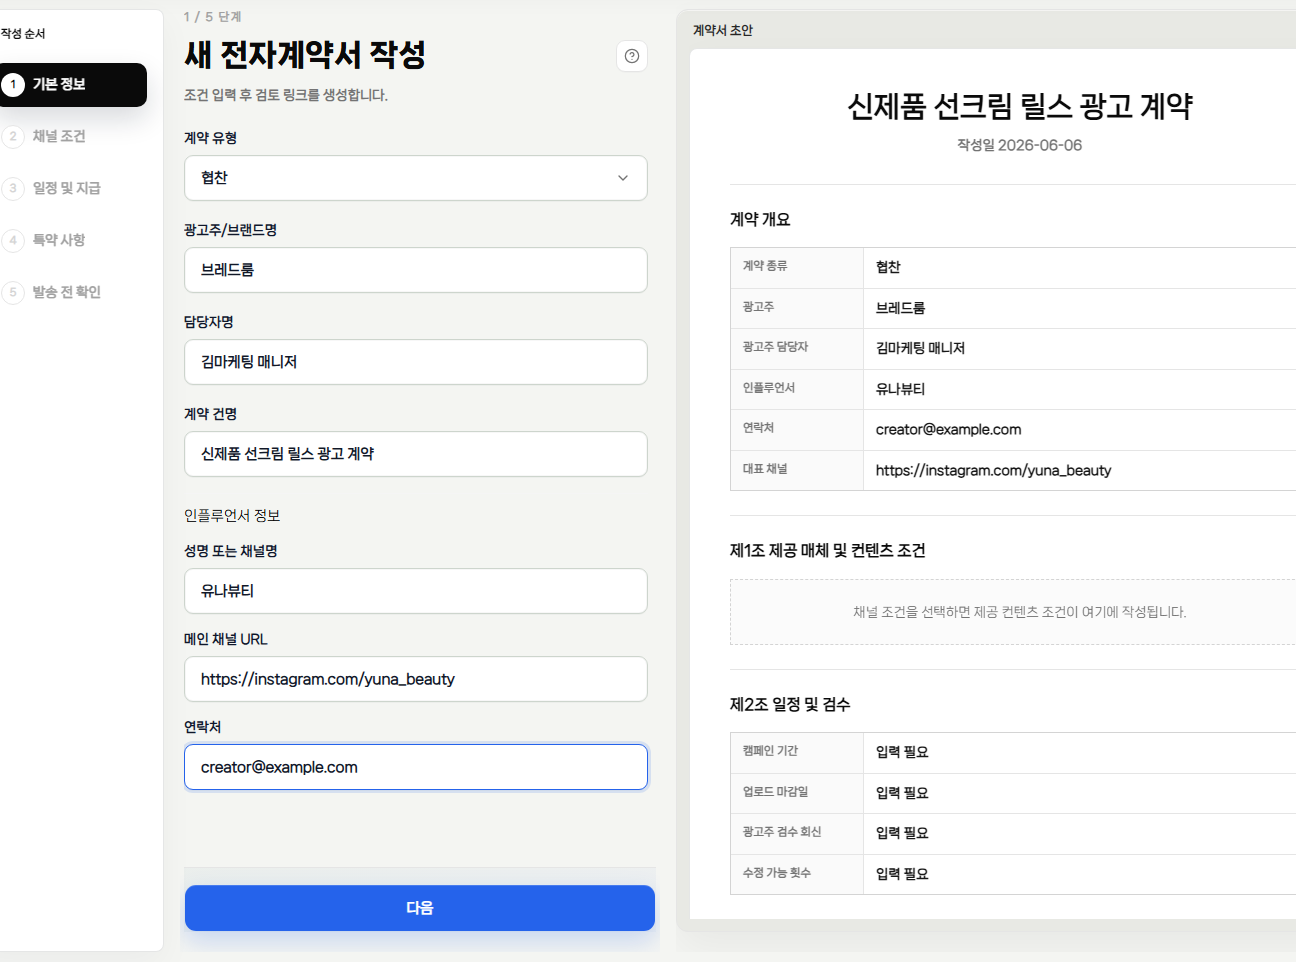
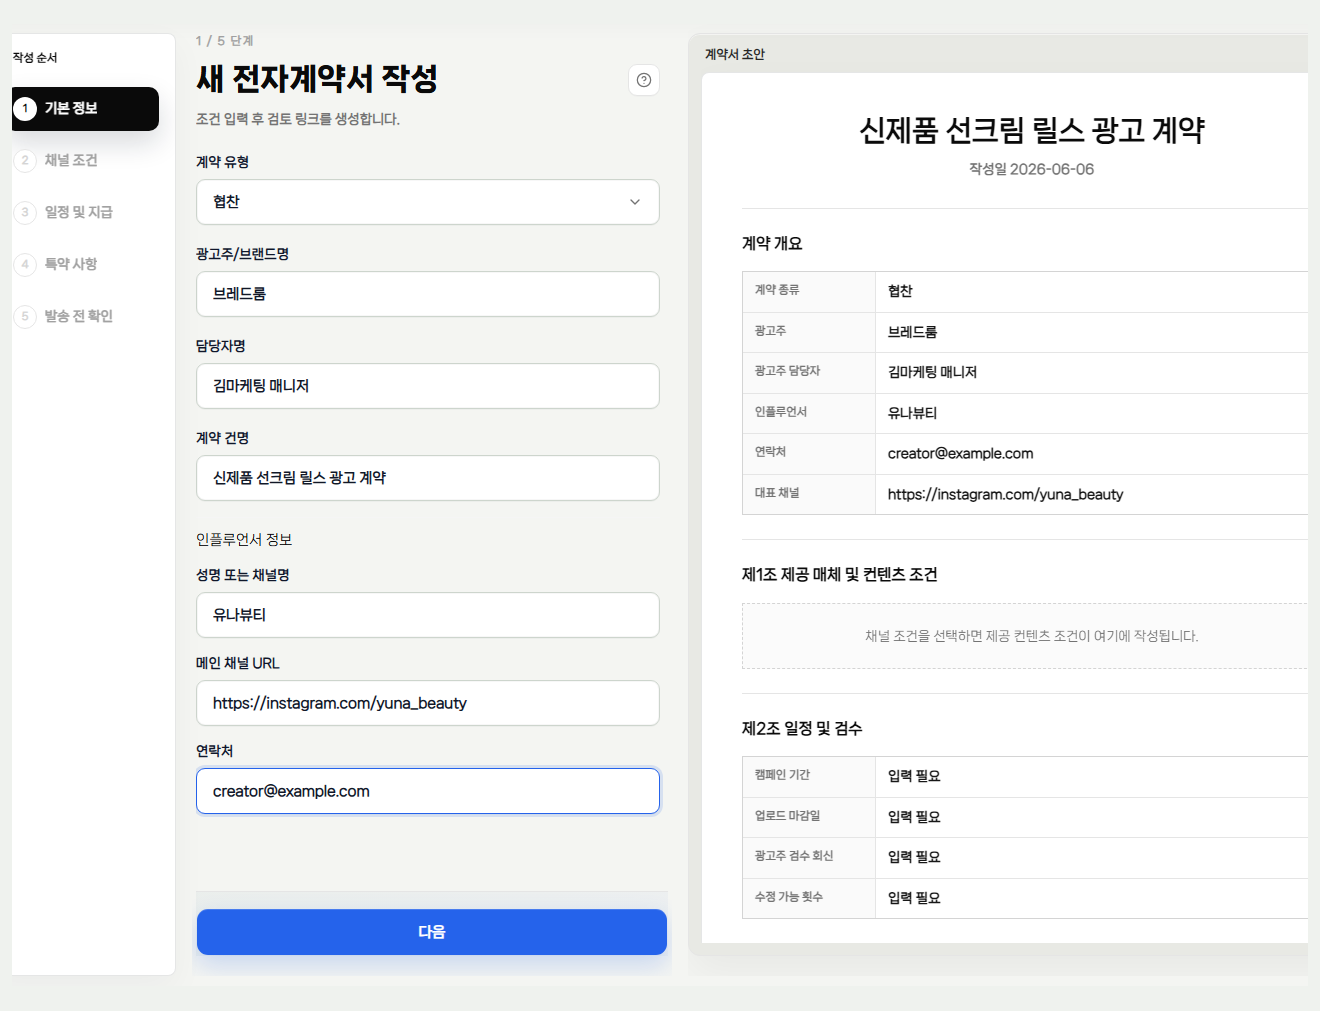
Refine advertiser intro capture framing

diff --git a/AGENTS.md b/AGENTS.md
@@ -184,7 +184,7 @@ Example option format:
   - Button color changes are UX hierarchy changes, not harmless styling tweaks.
   - Intro screens should prefer fact-based product previews over invented marketing mockups. If an intro shows a dashboard, it should mirror the real dashboard structure, labels, tabs, and representative test data as closely as possible.
   - Advertiser intro proposal previews should expose the sales/PDF proposal flow as a manual carousel when requested, with subtle left/right controls so advertisers can choose the screen. Do not duplicate the main "시작하기" CTA inside the preview carousel.
-  - Advertiser intro PC proposal pages after the first slide must preserve the approved dense, real-service dashboard feel. Do not replace the PC writing, link-share, contract-management, or applicant slides with sparse centered text, tiny floating documents, empty dashboard panels, montages, or hand-built mock dashboards. Use headerless, focused actual service capture assets for the PC writing, link-share, content-review/contract-management, and campaign-applicant previews; do not include the app/global service header inside the intro capture. The link-share preview must show the actual "공유 링크 생성" action, the content-review capture must match 콘텐츠 확인/수정요청 copy, and the campaign-applicant capture must visibly show the full 12-applicant operating list when the copy says 12 applicants.
+  - Advertiser intro PC proposal pages after the first slide must preserve the approved dense, real-service dashboard feel. Do not replace the PC writing, link-share, contract-management, or applicant slides with sparse centered text, tiny floating documents, empty dashboard panels, montages, or hand-built mock dashboards. Use headerless, focused actual service capture assets for the PC writing, link-share, content-review/contract-management, and campaign-applicant previews; do not include the app/global service header inside the intro capture. Focused capture crops must keep sidebars and action panels fully visible with enough breathing room that the service screen does not look cut off at the sides. The link-share preview must show the actual "공유 링크 생성" action, the content-review capture must match 콘텐츠 확인/수정요청 copy, and the campaign-applicant capture must visibly show the full 12-applicant operating list when the copy says 12 applicants.
   - Intro copy should stay minimal. Let actual UI states such as advertiser contract "작성중", "진행중", "종료", influencer "지원중", "완료", and table rows explain the product instead of repeating explanatory paragraphs.
   - Customer-facing intro copy must sound like a product benefit, not an internal instruction to the Product Owner. Avoid phrases like "모집중, 진행중, 종료만 봅니다." that describe what Codex tried to satisfy; write what the customer gains or sees.
   - Intro pages must not repeat role-switching controls in multiple places. If the header already lets users switch between "광고주" and "인플루언서", do not add role labels like "광고주 대시보드" above the hero copy or secondary links like "인플루언서 보기" below the CTA.
